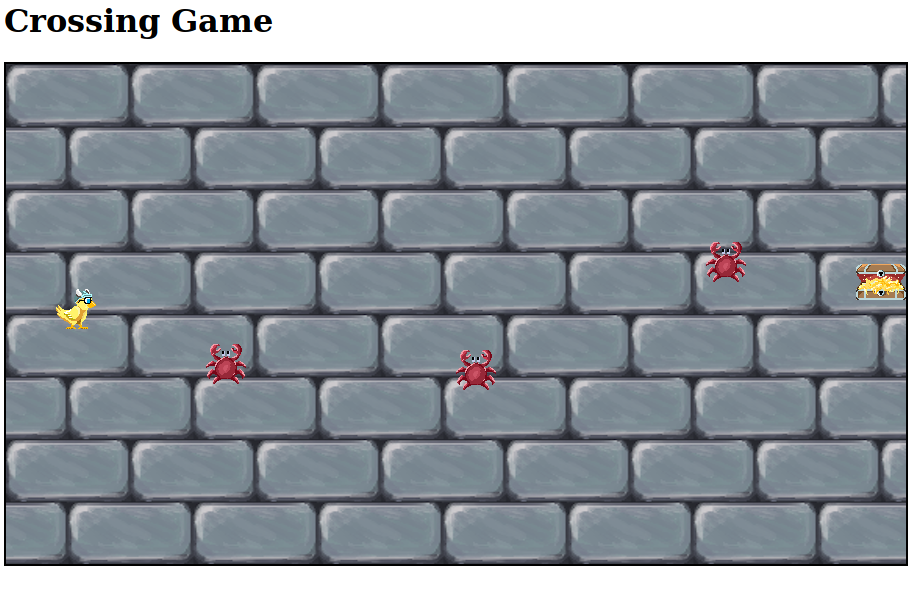
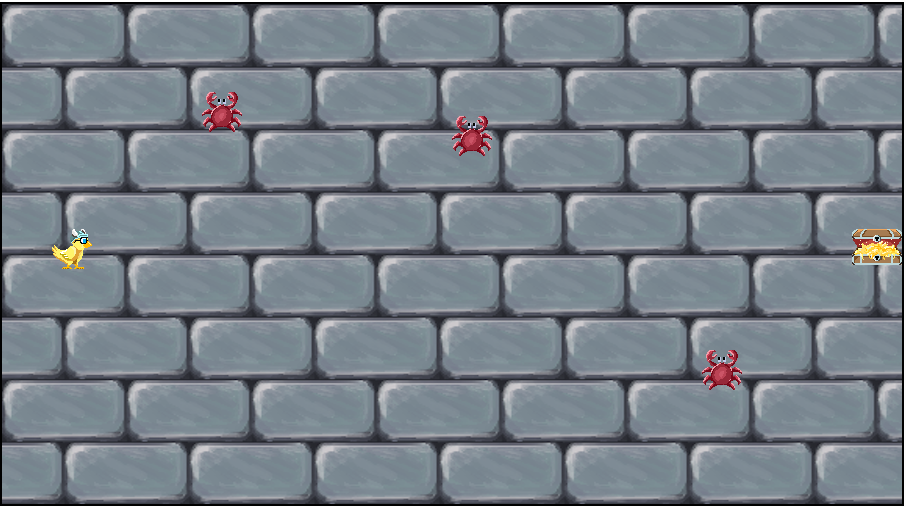
Update README.md and picture

diff --git a/index.html b/index.html
@@ -55,7 +55,7 @@
 
         var player = new GameCharacter(50, 225, width, width, "rgb(0, 255, 0", 0);
         
-        var goal = new GameCharacter(screenWidth - width, 200, width, 100, "rgb(0, 0, 0", 0);
+        var goal = new GameCharacter(screenWidth - width, 225, width, 100, "rgb(0, 0, 0", 0);
 
         var sprites = {};
 
